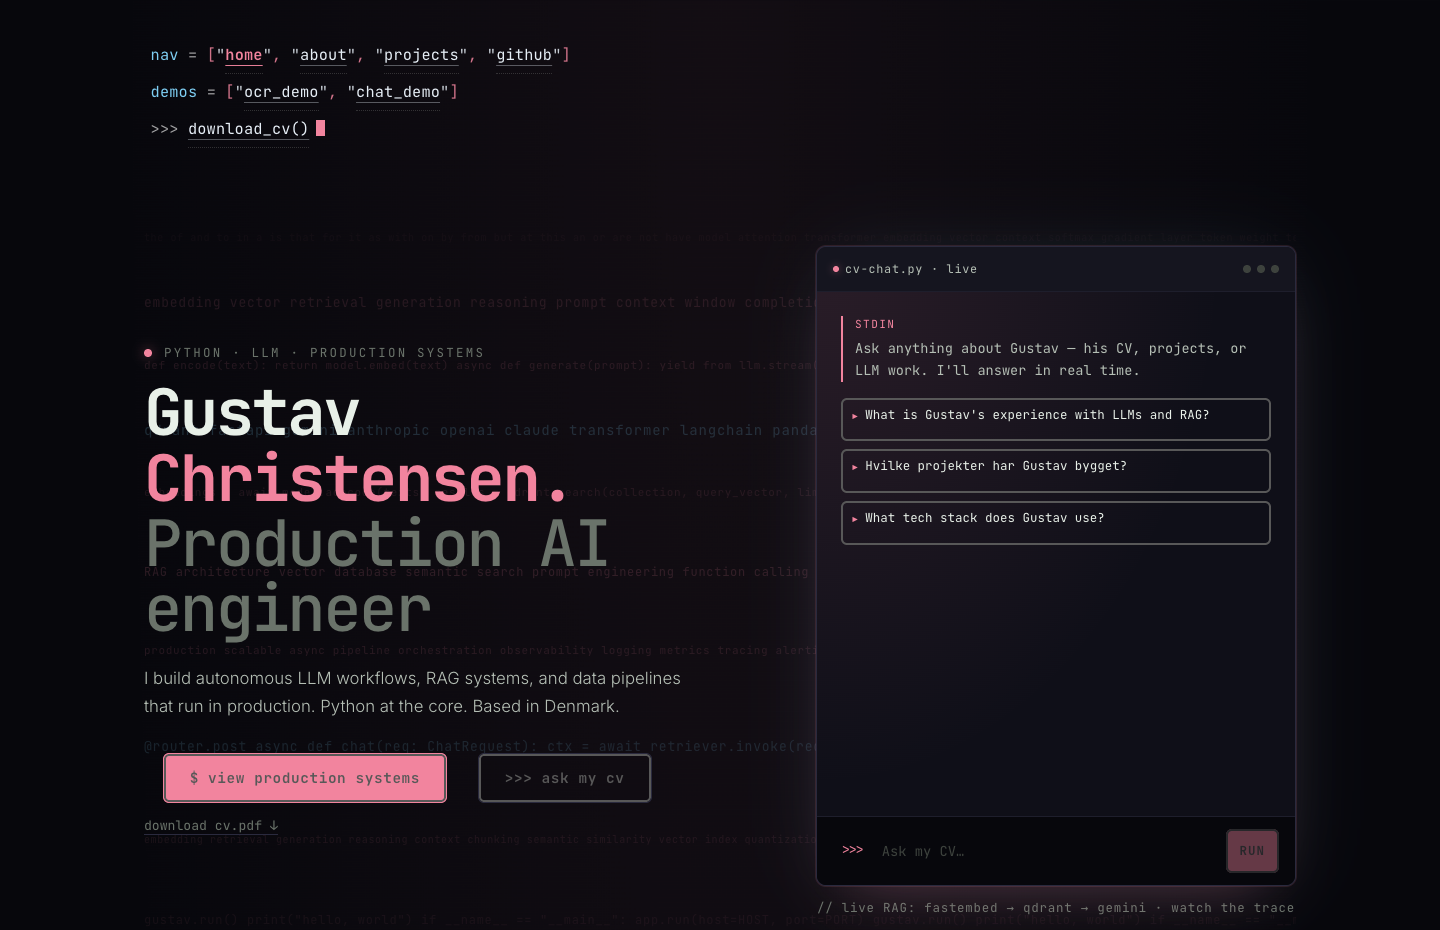
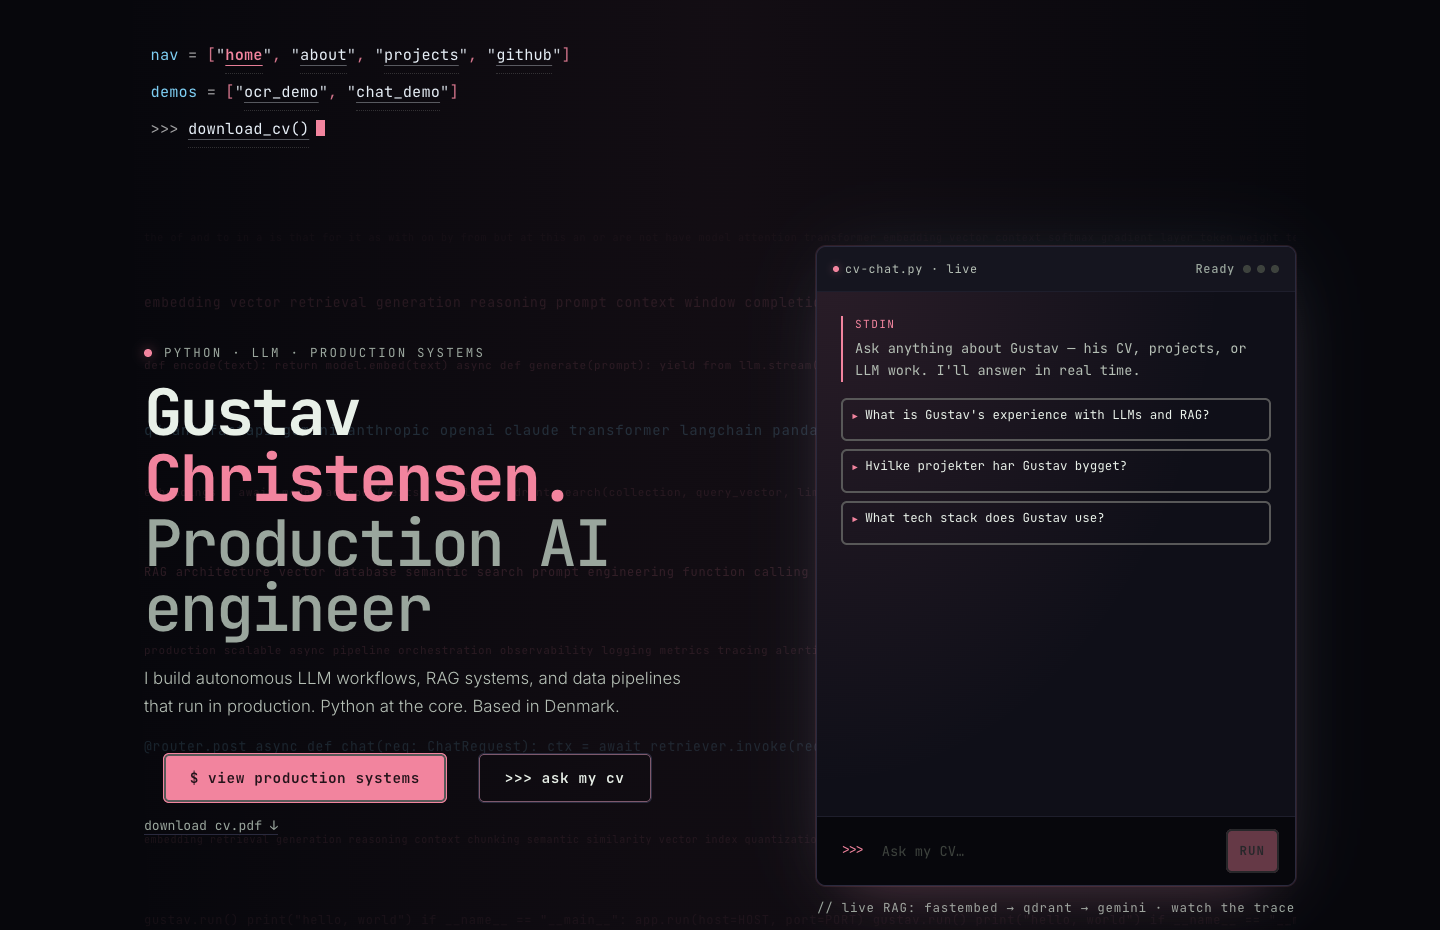
commit

diff --git a/frontend/design-polish.css b/frontend/design-polish.css
@@ -1,0 +1,93 @@
+/* Seven approved refinements on top of the restored production design. */
+:root { --ink-mute: #9aa69d; }
+
+/* Readable actions, with a distinctly quieter unavailable repository. */
+.hero-actions .button, .cta-actions .button { color: #24131a !important; }
+.hero-actions .button.alt, .cta-actions .button.alt {
+  color: var(--ink) !important;
+  box-shadow: inset 0 0 0 1px #7e596c;
+}
+.project-actions .button:not(.is-disabled) { color: var(--ink) !important; }
+.project-actions .button.primary,
+.project-actions .project-btn { color: #24131a !important; }
+.project-actions .project-btn-alt:not(.is-disabled) {
+  border-color: #7e596c;
+  background: rgba(242, 132, 158, .06);
+}
+.project-actions .project-btn-alt:not(.is-disabled):hover {
+  border-color: var(--accent);
+  background: rgba(242, 132, 158, .14);
+}
+.project-actions .button.is-disabled {
+  color: #9aa69d !important;
+  background: transparent;
+  border-color: var(--border);
+  opacity: 1;
+}
+
+/* Retain the mono hierarchy while giving small labels room to breathe. */
+.status-board-head, .status-state, .gh-total-label, .gh-link, .gh-legend {
+  font-size: .75rem;
+  line-height: 1.6;
+}
+.status-board-head { flex-wrap: wrap; gap: 8px 16px; }
+.projects-page .rag-badge { font-size: .75rem; color: #24131a; }
+.projects-page .tech-badge { font-size: .75rem; padding: .3rem .65rem; }
+
+/* Keep the original grid and complete content, with actions aligned below. */
+.projects-page .project-header { margin-bottom: 1rem; }
+.projects-page .project-description { flex-grow: 0; margin-bottom: 1rem; }
+.projects-page .project-tech { gap: .5rem; margin-bottom: 1.25rem; }
+.projects-page .project-actions { margin-top: auto; gap: .625rem; }
+.projects-page .project-actions .button {
+  min-height: 44px;
+  height: auto;
+  padding: .7rem 1rem;
+  line-height: 1.4;
+  white-space: normal;
+  text-align: center;
+}
+
+/* Give diagrams and screenshots the same frame and preserve their contents. */
+.projects-page .project-thumb {
+  margin: -24px -24px 1.5rem;
+  aspect-ratio: 16 / 9;
+}
+.projects-page button.project-thumb { width: calc(100% + 48px); }
+.projects-page .project-thumb img {
+  aspect-ratio: 16 / 9;
+  height: auto;
+  object-fit: contain;
+  object-position: center;
+}
+.projects-page .project-thumb.thumb-zoom img { padding: 12px; }
+.projects-page .project-card:hover .project-thumb img { transform: none; }
+.featured-thumb { aspect-ratio: 16 / 9; }
+.featured-thumb img { object-fit: contain; object-position: center; }
+
+/* Stable status space keeps the terminal from jumping between requests. */
+.chat-widget-header { flex-wrap: wrap; gap: 8px; }
+.chat-status {
+  margin-left: auto;
+  color: var(--ink-mute);
+  font: 500 .75rem/1.5 var(--font-mono);
+}
+.chat-status[data-busy='true'] { color: var(--accent-2); }
+.chat-widget[data-busy='true'] .chat-widget-header .dot {
+  background: var(--accent-2);
+  box-shadow: 0 0 10px rgba(126, 207, 244, .6);
+}
+.chat-widget .chat-input-row button:disabled { cursor: not-allowed; }
+.chat-widget[data-busy='true'] .chat-input-row button { cursor: progress; }
+
+@media (max-width: 736px) {
+  .py-nav-compact .nav-label {
+    display: block;
+    margin: 0 0 6px;
+    font: 500 .75rem/1.5 var(--font-mono);
+    color: var(--ink-mute);
+    letter-spacing: .06em;
+  }
+  .py-nav-compact select { border-color: #42424f; }
+  .py-nav-compact::after { top: auto; bottom: 22px; transform: translateY(50%); }
+}

diff --git a/frontend/App.tsx b/frontend/App.tsx
@@ -15,7 +15,7 @@ export function App({ page, content }: { page: Page; content: Content }): React.
   return <><a className="skip-link" href="#main">Skip to content</a><div className="nav-header-wrapper"><nav className="py-nav" aria-label="Main navigation">
     {[['nav', links.slice(0, 4)], ['demos', links.slice(4, 6)]].map(([name, entries]) => <div className="py-line" key={String(name)}><span className="py-var">{String(name)}</span> <span className="py-operator">=</span> <span className="py-bracket">[</span>{(entries as typeof links).map((link, i) => <span key={link.code}>{i > 0 ? <><span className="py-bracket">,</span>{' '}</> : null}<span className="py-string">"<a href={link.href} className={`py-link${path === link.href ? ' active' : ''}`} aria-label={link.label} aria-current={path === link.href ? 'page' : undefined} target={link.href.startsWith('https:') ? '_blank' : undefined} rel={link.href.startsWith('https:') ? 'noopener noreferrer' : undefined}>{link.code}</a>"</span></span>)}<span className="py-bracket">]</span></div>)}
     <div className="py-line"><span className="py-operator">&gt;&gt;&gt;</span> <a href="/download_cv" className="py-link">download_cv()</a><span className="nav-caret" aria-hidden="true" /></div>
-  </nav><div className="py-nav-compact"><label className="sr-only" htmlFor="py-nav-select">Navigation</label><select id="py-nav-select" value={path} onChange={event => { window.location.href = event.target.value; }}>{links.map(link => <option key={link.code} value={link.href}>{link.label}</option>)}</select></div><noscript><nav className="nojs-nav" aria-label="Mobile navigation">{links.slice(0,3).map(link => <a key={link.code} href={link.href}>{link.label}</a>)}</nav></noscript></div>
+  </nav><div className="py-nav-compact"><label className="nav-label" htmlFor="py-nav-select">Navigation</label><select id="py-nav-select" value={path} onChange={event => { window.location.href = event.target.value; }}>{links.map(link => <option key={link.code} value={link.href}>{link.label}</option>)}</select></div><noscript><nav className="nojs-nav" aria-label="Mobile navigation">{links.slice(0,3).map(link => <a key={link.code} href={link.href}>{link.label}</a>)}</nav></noscript></div>
     <div id="wrapper" className={page === 'projects' ? 'projects-page' : undefined}><main id="main" tabIndex={-1}><div className="inner">{page === 'home' ? <Home content={content} /> : page === 'about' ? <About content={content} /> : <Projects content={content} />}
       {page !== 'projects' ? <section className="cta-section"><div className="cta-banner"><h2>{page === 'home' ? 'See the work behind the systems' : 'Want the full picture?'}</h2><p>{page === 'about' ? 'Explore live demos and production AI projects — or ask the RAG assistant on the front page anything about my background.' : 'Explore architecture and live demos, or ask the CV assistant about the experience behind them.'}</p><div className="cta-actions"><a href="/projects" className="button big">View Projects</a><a href={page === 'home' ? '#cv-chat' : '/#cv-chat'} className="button big alt">Ask my CV</a><a href="/download_cv" className="button big alt">Download CV</a></div></div></section> : null}
     </div></main><footer id="footer"><div className="inner"><section><p>© {content.year} {content.author} • Built with Quart running on Uvicorn.<br /><code>async def build_portfolio():</code></p></section></div></footer></div>

diff --git a/frontend/components/Chat.tsx b/frontend/components/Chat.tsx
@@ -48,8 +48,9 @@ export function Chat(): React.JSX.Element {
       if (!controller.signal.aborted) { setBusy(false); input.current?.focus({ preventScroll: true }); }
     }
   }
-  return <section className="chat-widget" id="cv-chat" aria-labelledby="chat-heading">
-    <div className="chat-widget-header"><span className="meta" id="chat-heading"><span className="dot" aria-hidden="true" />cv-chat.py · live</span><span className="traffic-dots" aria-hidden="true"><span /><span /><span /></span></div>
+  const status = busy ? (messages.at(-1)?.text ? 'Writing…' : 'Searching CV…') : error ? 'Try again' : 'Ready';
+  return <section className="chat-widget" id="cv-chat" aria-labelledby="chat-heading" data-busy={busy}>
+    <div className="chat-widget-header"><span className="meta" id="chat-heading"><span className="dot" aria-hidden="true" />cv-chat.py · live</span><span className="chat-status" role="status" data-busy={busy}>{status}</span><span className="traffic-dots" aria-hidden="true"><span /><span /><span /></span></div>
     <div className="chat-widget-body" ref={scroll} role="log" aria-label="Conversation" aria-live="polite" aria-busy={busy}>
       {messages.length === 0 ? <><div className="chat-prompt"><span className="label">stdin</span>Ask anything about Gustav — his CV, projects, or LLM work. I'll answer in real time.</div><div className="chat-suggestions">{suggestions.map(q => <button className="chat-suggestion" type="button" key={q} onClick={() => void ask(q)}>{q}</button>)}</div></> : null}
       {messages.map(message => <div key={message.id} className={`chat-message chat-msg ${message.role === 'assistant' ? 'bot assistant' : 'user'}`}><span className="label">{message.role === 'user' ? 'You' : 'CV assistant'}</span>{message.role === 'assistant' ? <Suspense fallback={<p>{message.text}</p>}><Markdown text={message.text || (busy ? 'Looking through my CV…' : '')} /></Suspense> : <p>{message.text}</p>}</div>)}

diff --git a/tests/frontend/portfolio.spec.ts b/tests/frontend/portfolio.spec.ts
@@ -136,7 +136,27 @@ test('rate limits do not trigger a second request', async ({ page }) => {
   await page.goto('/');
   await page.getByRole('button', { name: /What is Gustav's experience/ }).click();
   await expect(page.getByRole('alert')).toContainText('Too many questions');
+  await expect(page.locator('.chat-status')).toHaveText('Try again');
   expect(fallbacks).toBe(0);
+});
+
+test('chat status announces working and ready without allowing duplicate submissions', async ({ page }) => {
+  await mockLive(page);
+  let release!: () => void;
+  const pending = new Promise<void>(resolve => { release = resolve; });
+  await page.route('**/api/cv-chat-stream', async route => {
+    await pending;
+    await route.fulfill({ contentType: 'text/event-stream', body: 'data: {"type":"token","t":"Gustav builds Python systems."}\n\ndata: {"type":"done"}\n\n' });
+  });
+  await page.goto('/');
+  await expect(page.locator('.chat-status')).toHaveText('Ready');
+  await page.getByRole('button', { name: /What is Gustav's experience/ }).click();
+  try {
+    await expect(page.locator('.chat-status')).toHaveText('Searching CV…');
+    await expect(page.getByRole('button', { name: 'WAIT', exact: true })).toBeDisabled();
+  } finally { release(); }
+  await expect(page.locator('.chat-message.assistant')).toContainText('Gustav builds Python systems.');
+  await expect(page.locator('.chat-status')).toHaveText('Ready');
 });
 
 test('chat and live-data errors have usable fallbacks', async ({ page }) => {

diff --git a/frontend/styles.css b/frontend/styles.css
@@ -2,6 +2,7 @@
    This file contains only React interaction adapters and the requested video dialog. */
 @import './original-navigation.css';
 @import './original-projects.css';
+@import './design-polish.css';
 :root{--pink:var(--accent);--blue:var(--accent-2);--surface-raised:var(--surface-2);--mono:var(--font-mono)}
 .dialog{width:min(720px,calc(100vw - 32px));max-width:calc(100vw - 32px);max-height:calc(100dvh - 32px);margin:auto;padding:0;border:1px solid #43485e;border-radius:var(--radius);background:var(--surface);color:var(--ink);box-shadow:0 40px 120px #0009;overflow:auto}
 .dialog-wide{width:min(1080px,calc(100vw - 32px),calc((100dvh - 180px)*16/9))}

diff --git a/DESIGN-REVIEW.md b/DESIGN-REVIEW.md
@@ -13,7 +13,7 @@ Siden skal se ud som [produktionen](https://gustavchristensen.dev/). Det tidlige
 - About bruger originalens `timeline`, `timeline-item` og `timeline-content`. Cirklernes position udledes dermed af den korrekte struktur.
 - React 19.3, TypeScript 7.0.2, prerendering og Python-API'er er bevaret. Der er ikke deployet.
 
-## Direkte sammenligning
+## Direkte sammenligning af baseline før designpolering
 
 Produktionen og den lokale side er målt i Chrome ved 1440 × 1000 og 390 × 1000. De sammenlignede elementer omfatter fontfamilie, fontstørrelse, fontvægt, linjehøjde, x/y-position, bredde og højde.
 
@@ -25,6 +25,20 @@ Produktionen og den lokale side er målt i Chrome ved 1440 × 1000 og 390 × 100
 | Projects, mobil | Samme mål for de kontrollerede kortdetaljer. Hele gitteret er ca. 26 pixels højere på grund af den opdaterede React/TypeScript-beskrivelse af selve portfolioen. |
 
 Dette er konkrete målinger og visuel sammenligning, ikke en garanti for pixelidentiske skærmbilleder: live-data, billedindhold, animationstidspunkt og font-rendering kan variere.
+
+## Efterfølgende godkendte designforbedringer
+
+Brugeren har derefter godkendt alle syv mindre forbedringer. De ligger i `frontend/design-polish.css` samt chatstatus og mobilnavigationens label. Originalens CSS-filer er fortsat uændrede.
+
+1. Mere kontrast på dæmpet tekst, herunder undertitel, datoer og hjælpetekst.
+2. Læsbare aktive knapper og en tydeligt mere afdæmpet Private repo-tilstand.
+3. Ensartet minimumsstørrelse på de berørte små status- og GitHub-tekster samt projektmærker.
+4. Strammere afstande i projektkort og handlinger placeret nederst; alle tekster og teknologier er bevaret.
+5. Ens 16:9-billedrammer med hele billeder og diagrammer synlige.
+6. Synlig chatstatus: Ready, Searching CV…, Writing… og Try again, med bevaret terminalglød.
+7. Synlig Navigation-label og tydeligere kant omkring mobilmenuen.
+
+Baseline-tabellen ovenfor dokumenterer tilstanden før disse godkendte ændringer; den beskriver ikke de nye afstande og størrelser.
 
 ## Bevidste forskelle
 
